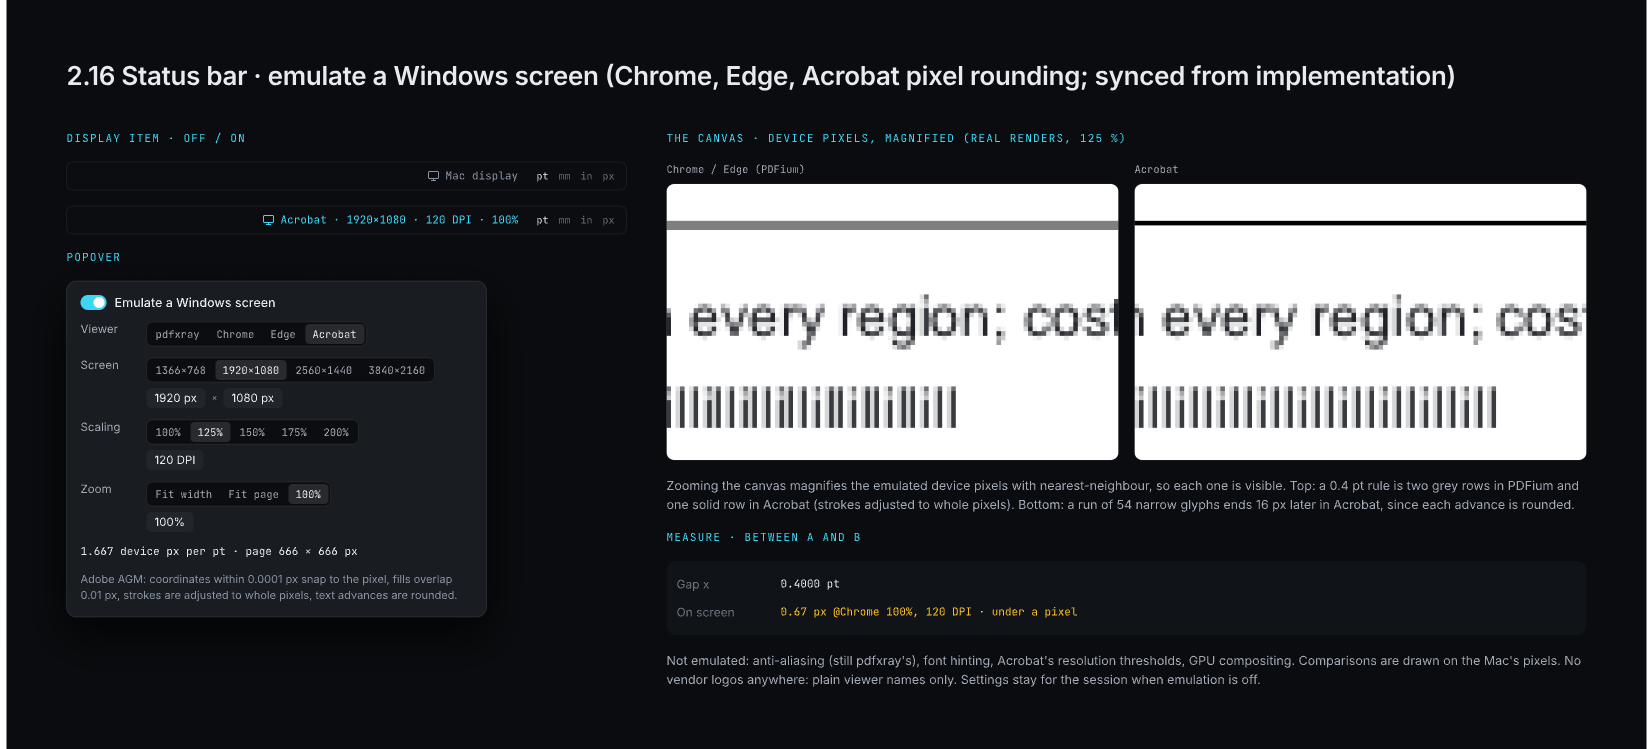
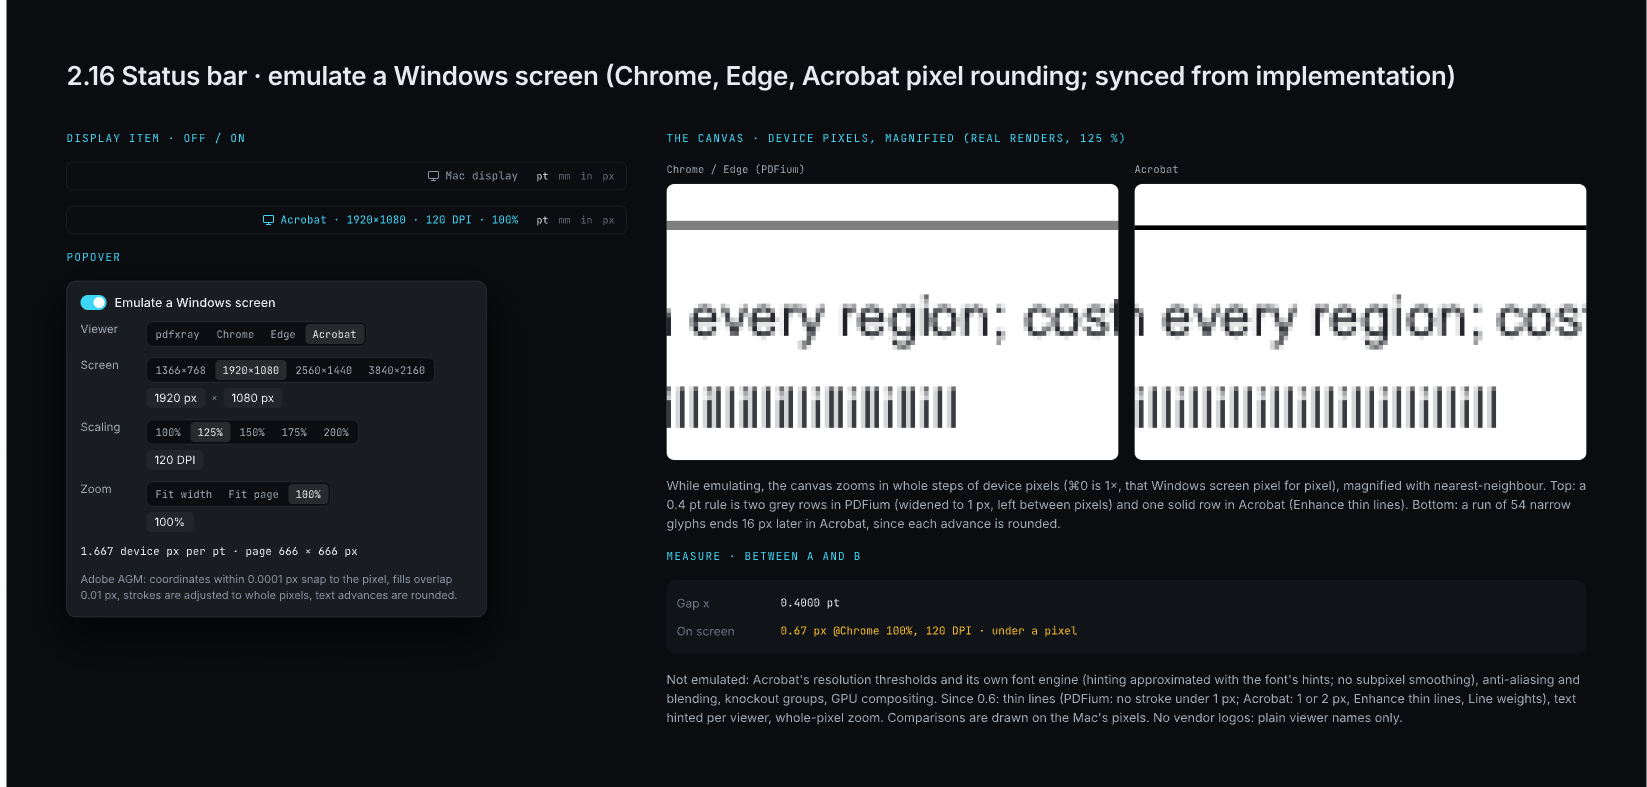
Site: the Windows section for 0.6
Thin lines and per-viewer hinting are emulated now: the lede, the Acrobat facts and the Not
emulated list say so, and New in 0.6 lists the release's four changes. The Acrobat 120 dpi
render is redone with 0.6.0. Hero boards with the v0.6.0 line, board 33 with the 0.6 notes.

diff --git a/site/index.html b/site/index.html
@@ -30,7 +30,7 @@
   <link rel="apple-touch-icon" href="img/brand/apple-touch-icon.png?v=11">
   <link rel="preload" href="fonts/Inter-Regular.ttf" as="font" type="font/ttf" crossorigin>
   <link rel="preload" href="fonts/Inter-SemiBold.ttf" as="font" type="font/ttf" crossorigin>
-  <link rel="stylesheet" href="styles.css?v=16">
+  <link rel="stylesheet" href="styles.css?v=17">
 </head>
 <body>
   <a class="skip" href="#top">Skip to content</a>
@@ -456,20 +456,20 @@
     <!-- WINDOWS -->
     <section id="windows" class="emu" aria-labelledby="emu-h">
       <div class="section-head reveal">
-        <p class="eyebrow"><span class="dot"></span>New in 0.5 · Windows viewers and screens</p>
+        <p class="eyebrow"><span class="dot"></span>Windows viewers and screens</p>
         <h2 id="emu-h">See it the way Windows draws it.</h2>
-        <p class="sub">Why is a rule crisp in Acrobat and grey in Chrome? Why does a line of text end a few pixels early? pdfxray draws the page on the Windows screen you pick, then rounds what lands between two pixels the way Chrome, Edge or Acrobat does. Zoom in and every device pixel is there to inspect.</p>
+        <p class="sub">Why is a rule crisp in Acrobat and grey in Chrome? Why does a line of text end a few pixels early? pdfxray draws the page on the Windows screen you pick, then rounds what lands between two pixels the way Chrome, Edge or Acrobat does: glyphs, clips, images and thin lines, with text hinted as each viewer hints it. Zoom in whole steps and every device pixel is there to inspect.</p>
       </div>
       <div class="emu-demo reveal">
         <figure class="emu-view">
           <div class="emu-stage">
-            <img id="emu-img" src="img/emu/acrobat-120.png?v=1" alt="Part of a test page drawn as Acrobat on a 125 % screen, magnified so each device pixel shows" width="100" height="60" decoding="async">
+            <img id="emu-img" src="img/emu/acrobat-120.png?v=2" alt="Part of a test page drawn as Acrobat on a 125 % screen, magnified so each device pixel shows" width="100" height="60" decoding="async">
             <span class="emu-mark m1" aria-hidden="true">1</span>
             <span class="emu-mark m2" aria-hidden="true">2</span>
           </div>
           <figcaption>Device pixels, magnified. Real output of <code>pdfxray render --emulate</code> on a 60 × 36 pt piece of a test page.</figcaption>
           <dl class="emu-facts">
-            <div><dt><span class="emu-n" aria-hidden="true">1</span>A 0.4 pt rule</dt><dd id="emu-rule">One solid black pixel row: Acrobat makes every stroke a whole number of pixels.</dd></div>
+            <div><dt><span class="emu-n" aria-hidden="true">1</span>A 0.4 pt rule</dt><dd id="emu-rule">One solid black pixel row: with Enhance thin lines on, as Acrobat starts, a stroke under 1 pt is a 1 px black line.</dd></div>
             <div><dt><span class="emu-n" aria-hidden="true">2</span>A run of 54 narrow glyphs</dt><dd id="emu-run">Ends 16 px later than in Chrome: each advance is rounded, and the error adds up.</dd></div>
           </dl>
         </figure>
@@ -486,22 +486,21 @@
             </div></div>
           <div class="emu-row"><span class="emu-k">Zoom</span><span class="emu-chip">100%</span></div>
           <p class="emu-read" id="emu-read">1.667 device px per pt · page 333 × 133 px</p>
-          <p class="emu-rule" id="emu-why">Adobe’s engine: coordinates within 0.0001 px snap to the pixel, fills overlap 0.01 px, every stroke is a whole number of pixels (at least one), and each glyph advance is rounded, so long runs drift.</p>
+          <p class="emu-rule" id="emu-why">Adobe’s engine: coordinates within 0.0001 px snap to the pixel, fills overlap 0.01 px, stroke edges go to pixel boundaries (a thin line is 1 or 2 px), and each glyph advance is rounded, so long runs drift.</p>
           <p class="emu-status" aria-hidden="true"><span id="emu-sb">Acrobat · 1920×1080 · 120 DPI · 100%</span></p>
         </div>
       </div>
       <div class="emu-foot reveal">
         <pre class="snippet"><code><span class="p">$</span> pdfxray render report.pdf 0 --emulate acrobat --dpi 120 --zoom 100 -o page.png</code></pre>
-        <p class="fine">It shows where things land on the pixel grid, not a pixel-identical screenshot of those apps. Not emulated: anti-aliasing (still pdfxray’s), font hinting, Acrobat’s resolution thresholds and GPU compositing. Comparisons are drawn on the Mac’s pixels. In the app it’s the display item in the status bar; Measure’s <em>On screen</em> counts the emulated pixels.</p>
+        <p class="fine">It shows where things land on the pixel grid, not a pixel-identical screenshot of those apps. Not emulated: Acrobat’s resolution thresholds and its own font engine (its hinting is approximated with the font’s hints; subpixel text smoothing is not reproduced), anti-aliasing and blending (still pdfxray’s), knockout groups and GPU compositing. Comparisons are drawn on the Mac’s pixels. In the app it’s the display item in the status bar; Measure’s <em>On screen</em> counts the emulated pixels.</p>
       </div>
       <div class="emu-new reveal">
-        <p class="kicker">Also in 0.5</p>
+        <p class="kicker">New in 0.6</p>
         <ul>
-          <li><b>Paint order while comparing.</b> Step one side while the other stays whole.</li>
-          <li><b>Page marks on the track.</b> Page start and Page end jump between pages.</li>
-          <li><b>Go to paint order.</b> From any selection to the operator that paints it.</li>
-          <li><b>Save image…</b> Any image in the file, as a PNG at its own size.</li>
-          <li><b>Between A and B.</b> Sub-pixel gaps and overlaps, flagged under a pixel.</li>
+          <li><b>Both files, stepped together.</b> A comparison’s paint order has a track per file; Moves picks A, Both or B, and they turn the page together.</li>
+          <li><b>Thin lines, as each viewer draws them.</b> PDFium draws no stroke under 1 px; Acrobat’s are 1 or 2 px, with Enhance thin lines and Line weights.</li>
+          <li><b>Text hinted per viewer.</b> Small text stays sharp, its stems fitted to the emulated pixels.</li>
+          <li><b>Whole-pixel zoom.</b> While emulating, the canvas zooms in whole steps: 1× is that Windows screen, pixel for pixel.</li>
         </ul>
       </div>
     </section>
@@ -717,6 +716,6 @@
   </footer>
 
   <p class="sr-only" id="live" aria-live="polite"></p>
-  <script src="main.js?v=14" defer></script>
+  <script src="main.js?v=15" defer></script>
 </body>
 </html>

diff --git a/site/main.js b/site/main.js
@@ -229,8 +229,8 @@
     const NAME = { pdfxray: 'pdfxray', chrome: 'Chrome', edge: 'Edge', acrobat: 'Acrobat' };
     const WHY = {
       pdfxray: 'pdfxray’s own rounding, on the emulated screen’s pixels.',
-      pdfium: 'PDFium: each glyph starts on a whole pixel, rectangular clips grow out to whole pixels, upright images cover a whole number of pixels. No snapping, no fill overlap, no stroke adjustment.',
-      acrobat: 'Adobe’s engine: coordinates within 0.0001 px snap to the pixel, fills overlap 0.01 px, every stroke is a whole number of pixels (at least one), and each glyph advance is rounded, so long runs drift.',
+      pdfium: 'PDFium: each glyph starts on a whole pixel, rectangular clips grow out to whole pixels, upright images cover a whole number of pixels, and no stroke is drawn under 1 device px. No snapping, no fill overlap, no stroke adjustment.',
+      acrobat: 'Adobe’s engine: coordinates within 0.0001 px snap to the pixel, fills overlap 0.01 px, stroke edges go to pixel boundaries (a thin line is 1 or 2 px), and each glyph advance is rounded, so long runs drift.',
     };
     const state = { viewer: 'acrobat', dpi: '120' };
     const $ = (id) => document.getElementById(id);
@@ -240,15 +240,15 @@
       const eng = viewer === 'acrobat' ? 'acrobat' : 'pdfium';
       const pct = { 96: 100, 120: 125, 144: 150 }[dpi];
       const img = $('emu-img');
-      img.src = `img/emu/${viewer}-${dpi}.png?v=1`;
+      img.src = `img/emu/${viewer}-${dpi}.png?v=${viewer === 'acrobat' && dpi === '120' ? 2 : 1}`;
       img.alt = `Part of a test page drawn as ${NAME[viewer]} on a ${pct} % screen, magnified so each device pixel shows`;
       $('emu-read').textContent = `${(dpi / 72).toFixed(3)} device px per pt · page ${m.size} px`;
       $('emu-why').textContent = WHY[viewer === 'pdfxray' ? 'pdfxray' : eng];
       $('emu-sb').textContent = viewer === 'pdfxray' ? `pdfxray · 1920×1080 · ${dpi} DPI · 100%` : `${NAME[viewer]} · 1920×1080 · ${dpi} DPI · 100%`;
       const rows = m.rule[eng];
       $('emu-rule').textContent = rows.length === 1
-        ? 'One solid black pixel row: Acrobat makes every stroke a whole number of pixels.'
-        : `Two grey pixel rows, ${rows[0]} % and ${rows[1]} % ink: the line lands between pixels and nothing moves it.`;
+        ? 'One solid black pixel row: with Enhance thin lines on, as Acrobat starts, a stroke under 1 pt is a 1 px black line.'
+        : `Two grey pixel rows, ${rows[0]} % and ${rows[1]} % ink: PDFium widens it to 1 px but leaves it between pixels.`;
       const d = m.run.acrobat - m.run.pdfium;
       $('emu-run').textContent = eng === 'acrobat'
         ? `Ends ${Math.abs(d)} px ${d > 0 ? 'later' : 'earlier'} than in Chrome: each advance is rounded, and the error adds up.`
@@ -279,7 +279,7 @@
         });
       });
     }
-    for (const v of ['pdfxray', 'chrome', 'edge', 'acrobat']) for (const d of [96, 120, 144]) { const im = new Image(); im.src = `img/emu/${v}-${d}.png?v=1`; }
+    for (const v of ['pdfxray', 'chrome', 'edge', 'acrobat']) for (const d of [96, 120, 144]) { const im = new Image(); im.src = `img/emu/${v}-${d}.png?v=${v === 'acrobat' && d === 120 ? 2 : 1}`; }
     render();
     // While on screen and untouched, flip between Chrome and Acrobat so the difference shows itself.
     if (!reduce) {
